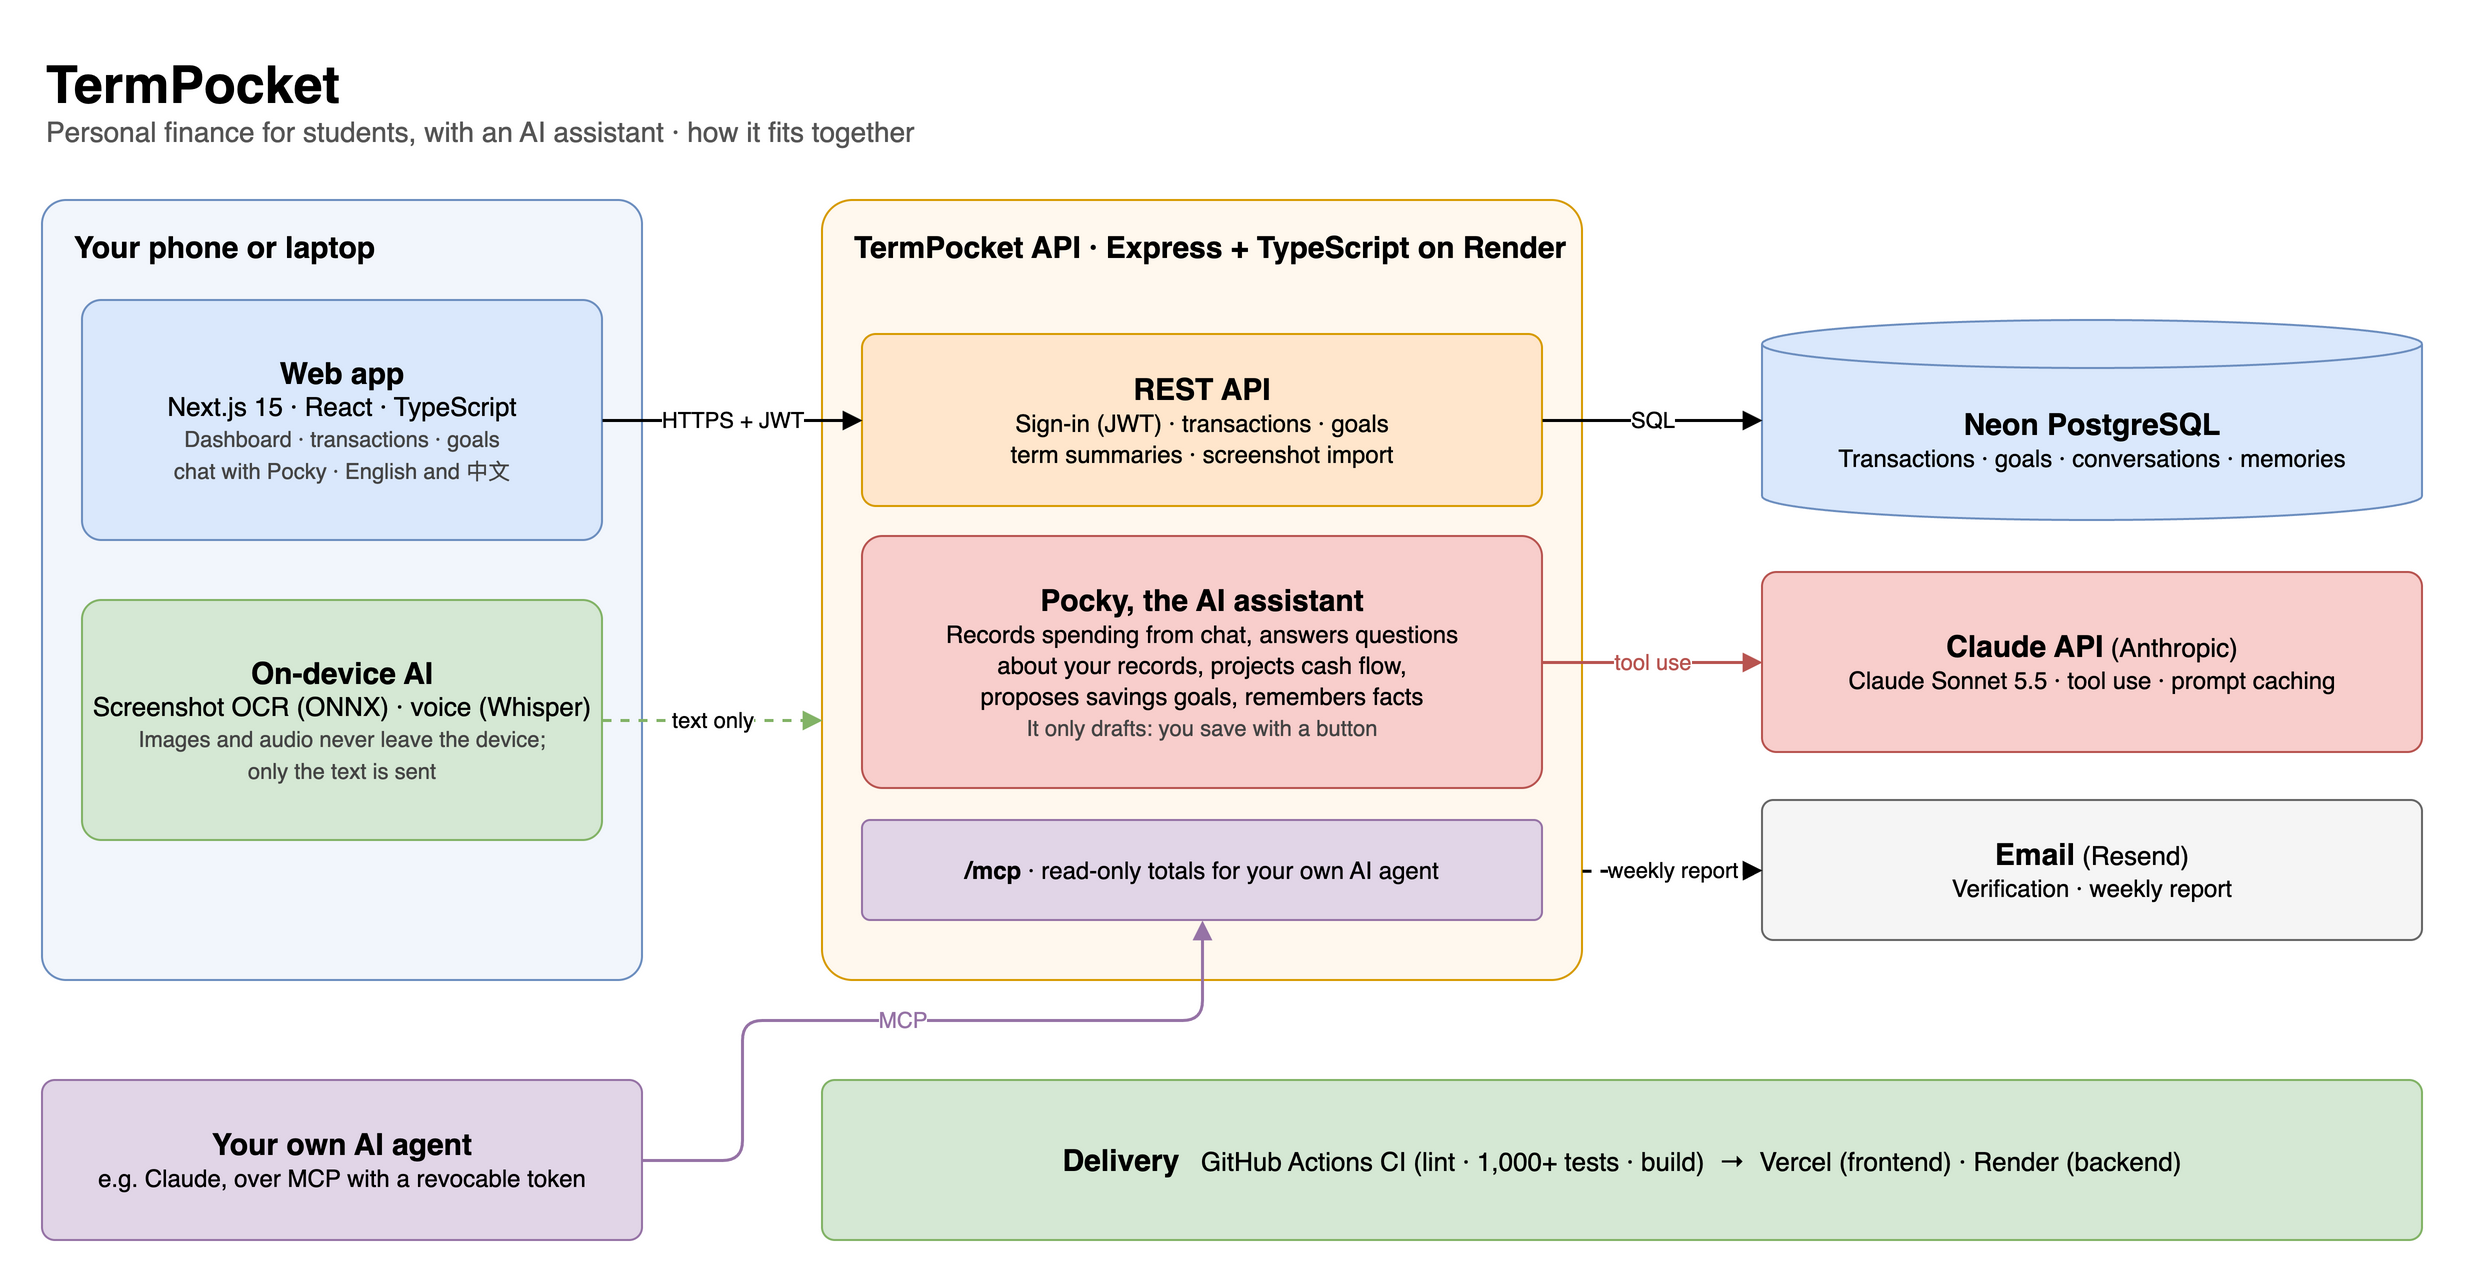
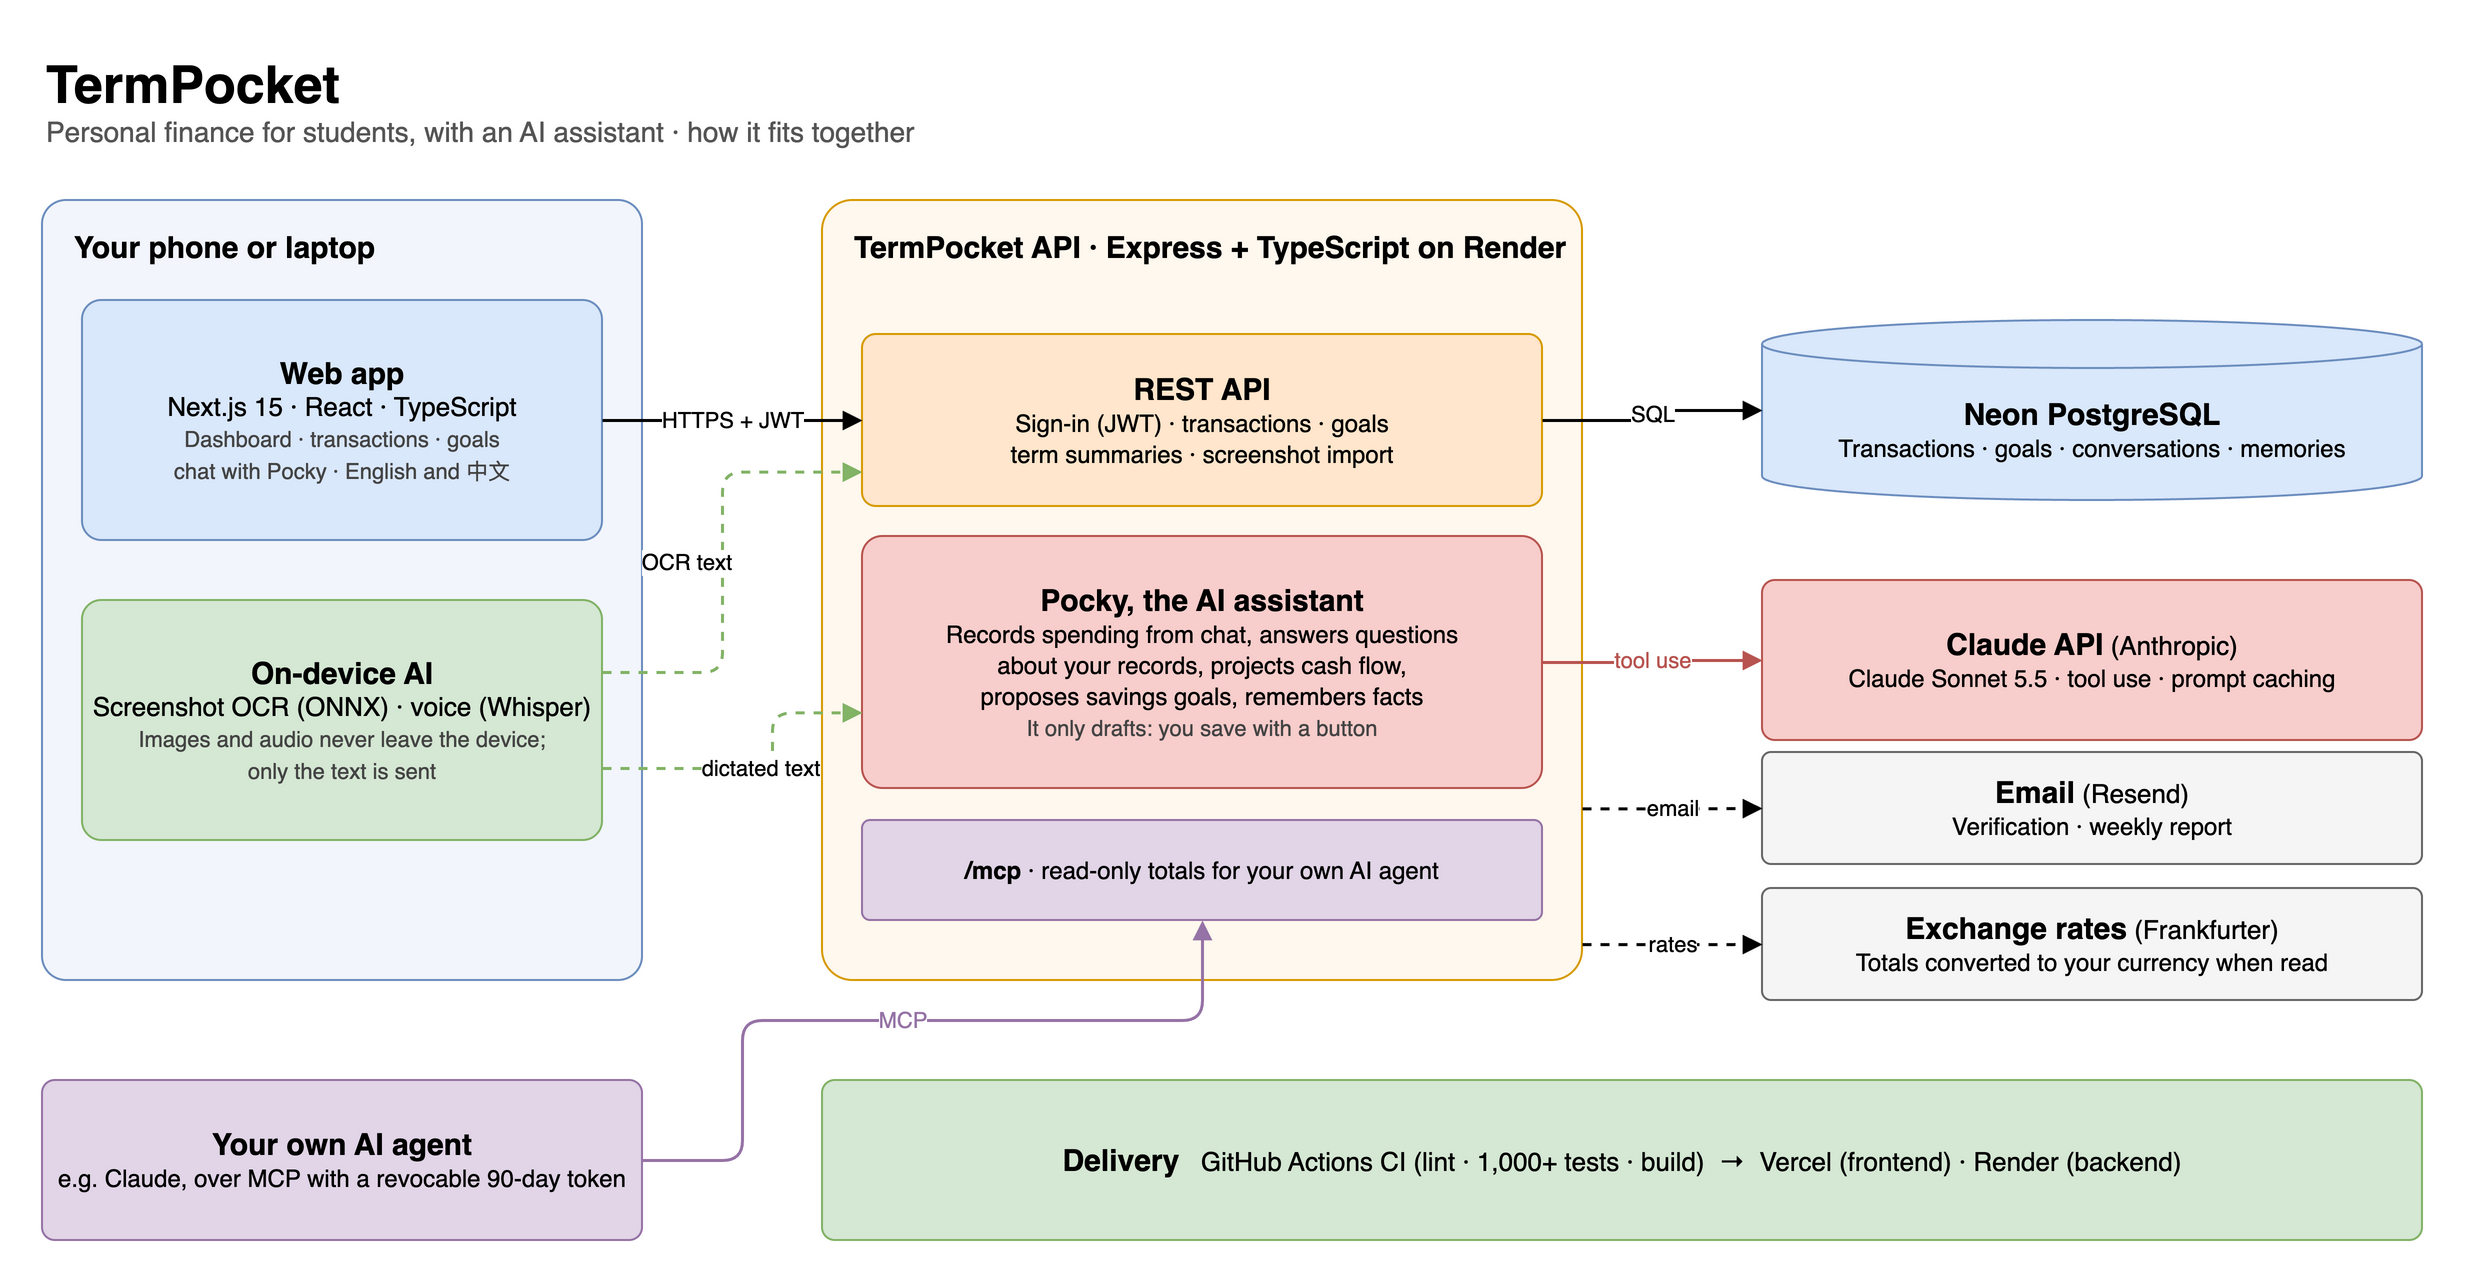
docs: fix the overview diagram's data flows
- OCR text goes to the REST API's import endpoint and dictated text to
  Pocky; one arrow landed both on Pocky.
- The email arrow leaves the API between Pocky and /mcp (it started at
  /mcp, which sends no mail) and the box covers verification too.
- Add the exchange-rate provider (Frankfurter), an external call the
  diagram omitted while showing the email provider.
- Note that the MCP token also expires (90 days).

diff --git a/README.md b/README.md
@@ -240,7 +240,7 @@ To keep it current without intervention, set `DEMO_REFRESH_ENABLED=true`. The ho
 
 ## Architecture
 
-[![TermPocket at a glance: the web app and on-device AI, the Express API with Pocky, Neon PostgreSQL, the Claude API, email, MCP, and delivery](docs/architecture-overview.png)](docs/architecture-overview.png)
+[![TermPocket at a glance: the web app and on-device AI, the Express API with Pocky, Neon PostgreSQL, the Claude API, email, exchange rates, MCP, and delivery](docs/architecture-overview.png)](docs/architecture-overview.png)
 
 The detailed version:
 
